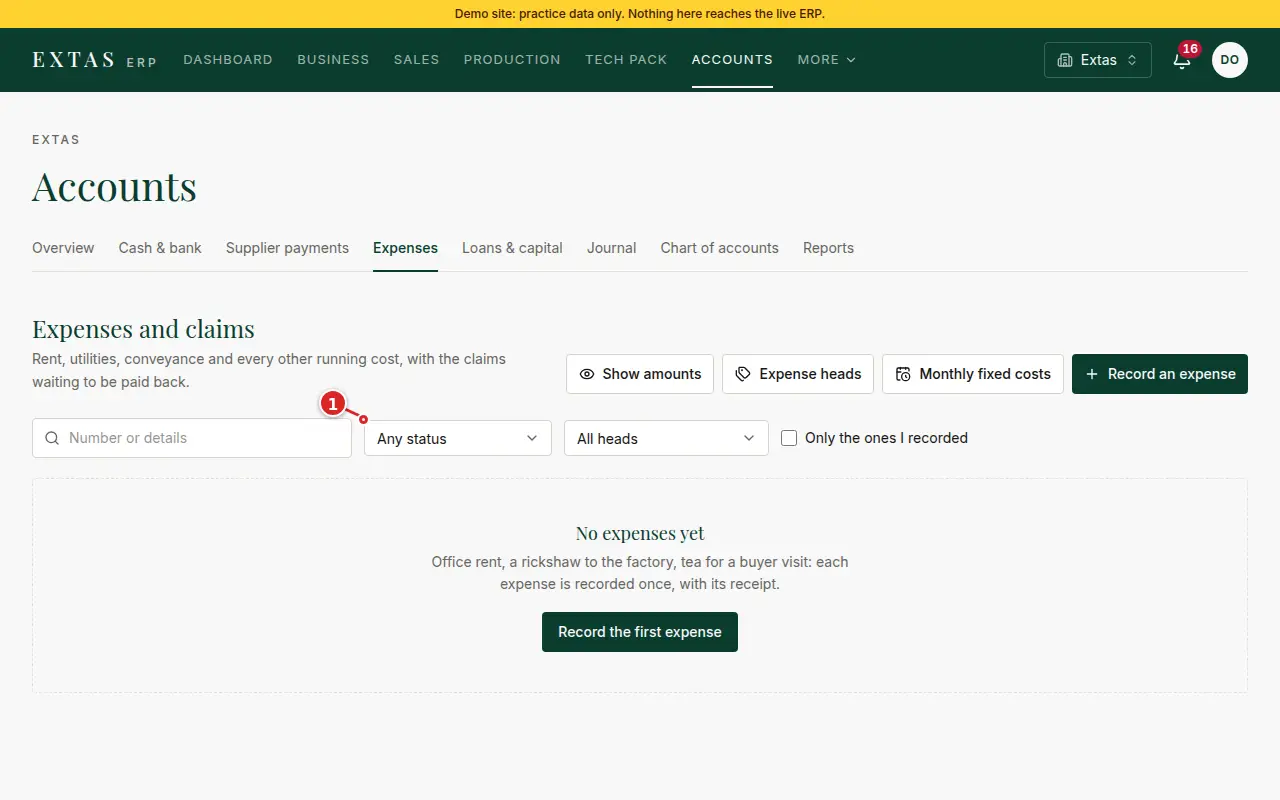
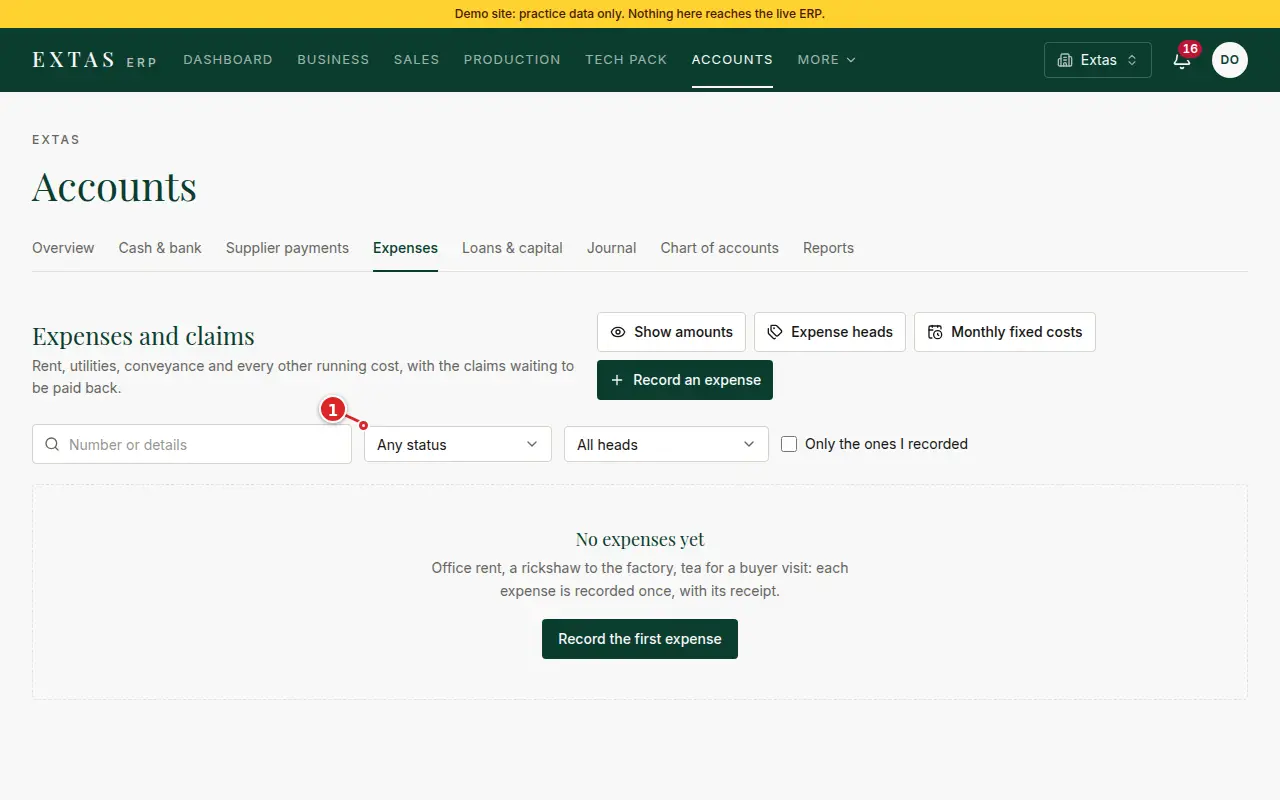
Keep the Expenses page buttons inside a tablet screen
The new Monthly fixed costs button made the header row run past 768 px.
The header now stacks until the laptop width and its buttons wrap.
Retook the two Expenses Help pictures.

Claude-Session: https://claude.ai/code/session_01RKMVSrCq3pU5yCGC1dztxv

diff --git a/src/app/(app)/accounts/expenses/page.tsx b/src/app/(app)/accounts/expenses/page.tsx
@@ -59,7 +59,7 @@ export default async function ExpensesPage({
   return (
     <PrivacyProvider>
       <section aria-labelledby="expenses-heading" className="grid gap-6">
-        <div className="flex flex-col gap-4 sm:flex-row sm:items-end sm:justify-between">
+        <div className="flex flex-col gap-4 lg:flex-row lg:items-end lg:justify-between">
           <div>
             <h2 id="expenses-heading" className="font-serif text-2xl text-primary">
               {seesAll ? "Expenses and claims" : "My expenses"}
@@ -72,7 +72,7 @@ export default async function ExpensesPage({
                   : "What you spent for the company. Accounts pays each claim back once they approve it."}
             </p>
           </div>
-          <div className="flex flex-col gap-2 sm:flex-row">
+          <div className="flex flex-col gap-2 sm:flex-row sm:flex-wrap">
             <PrivacyToggle className="w-full sm:w-auto" />
             {can.manageHeads && (
               <Button asChild variant="outline" className="w-full sm:w-auto">
